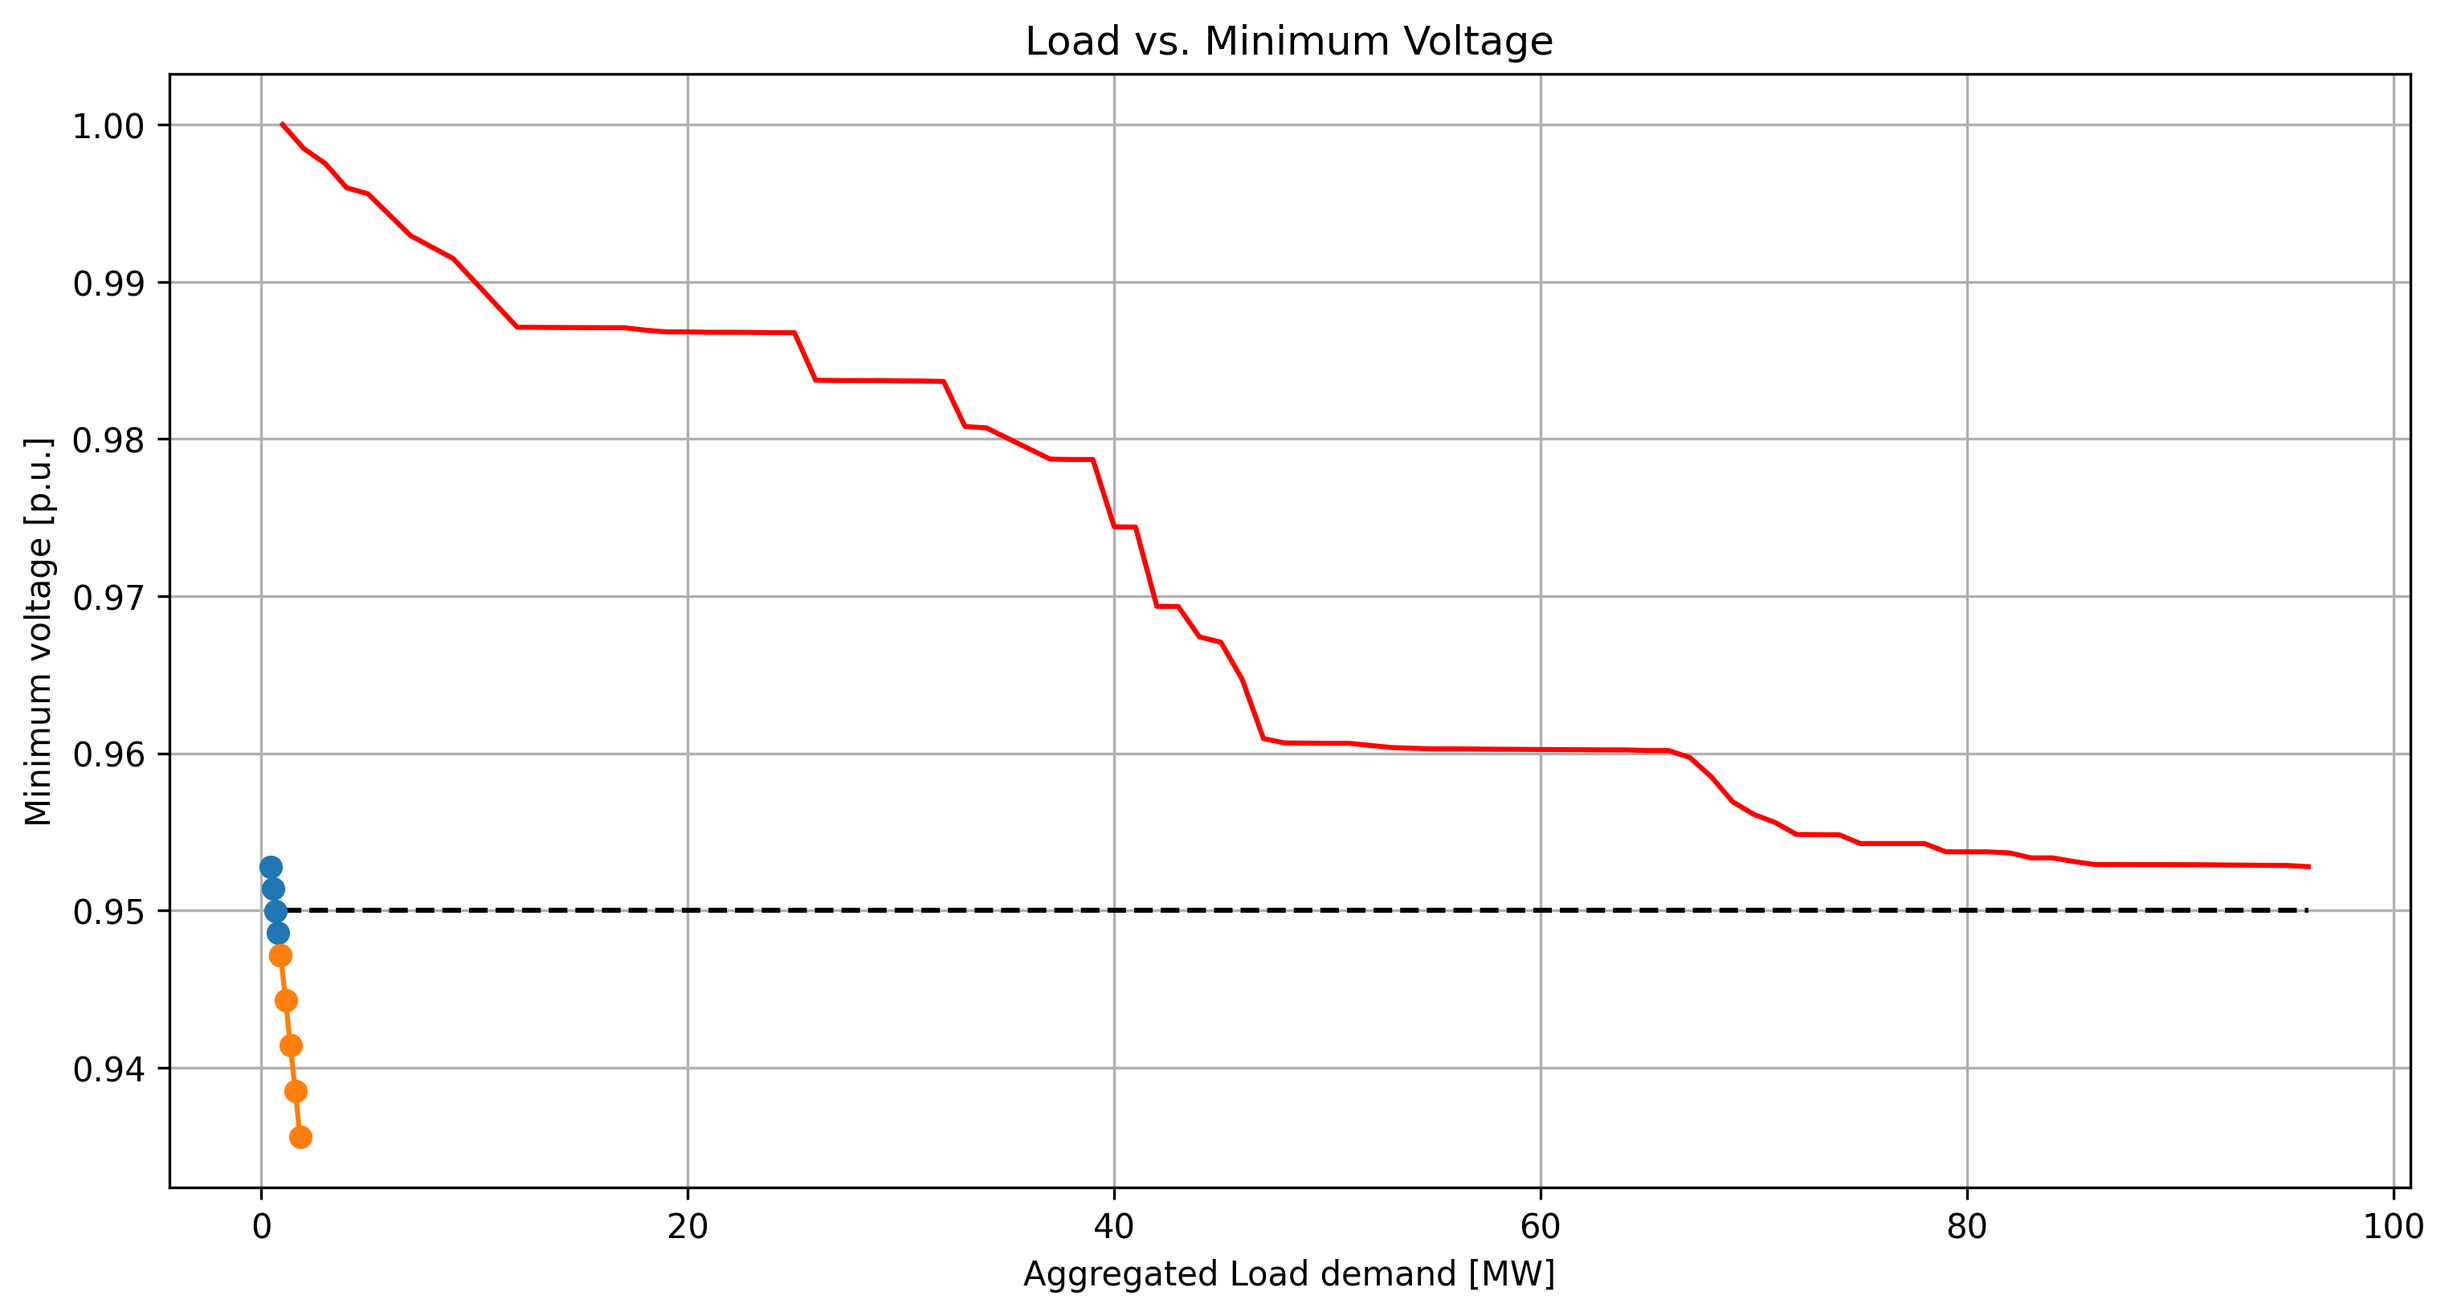
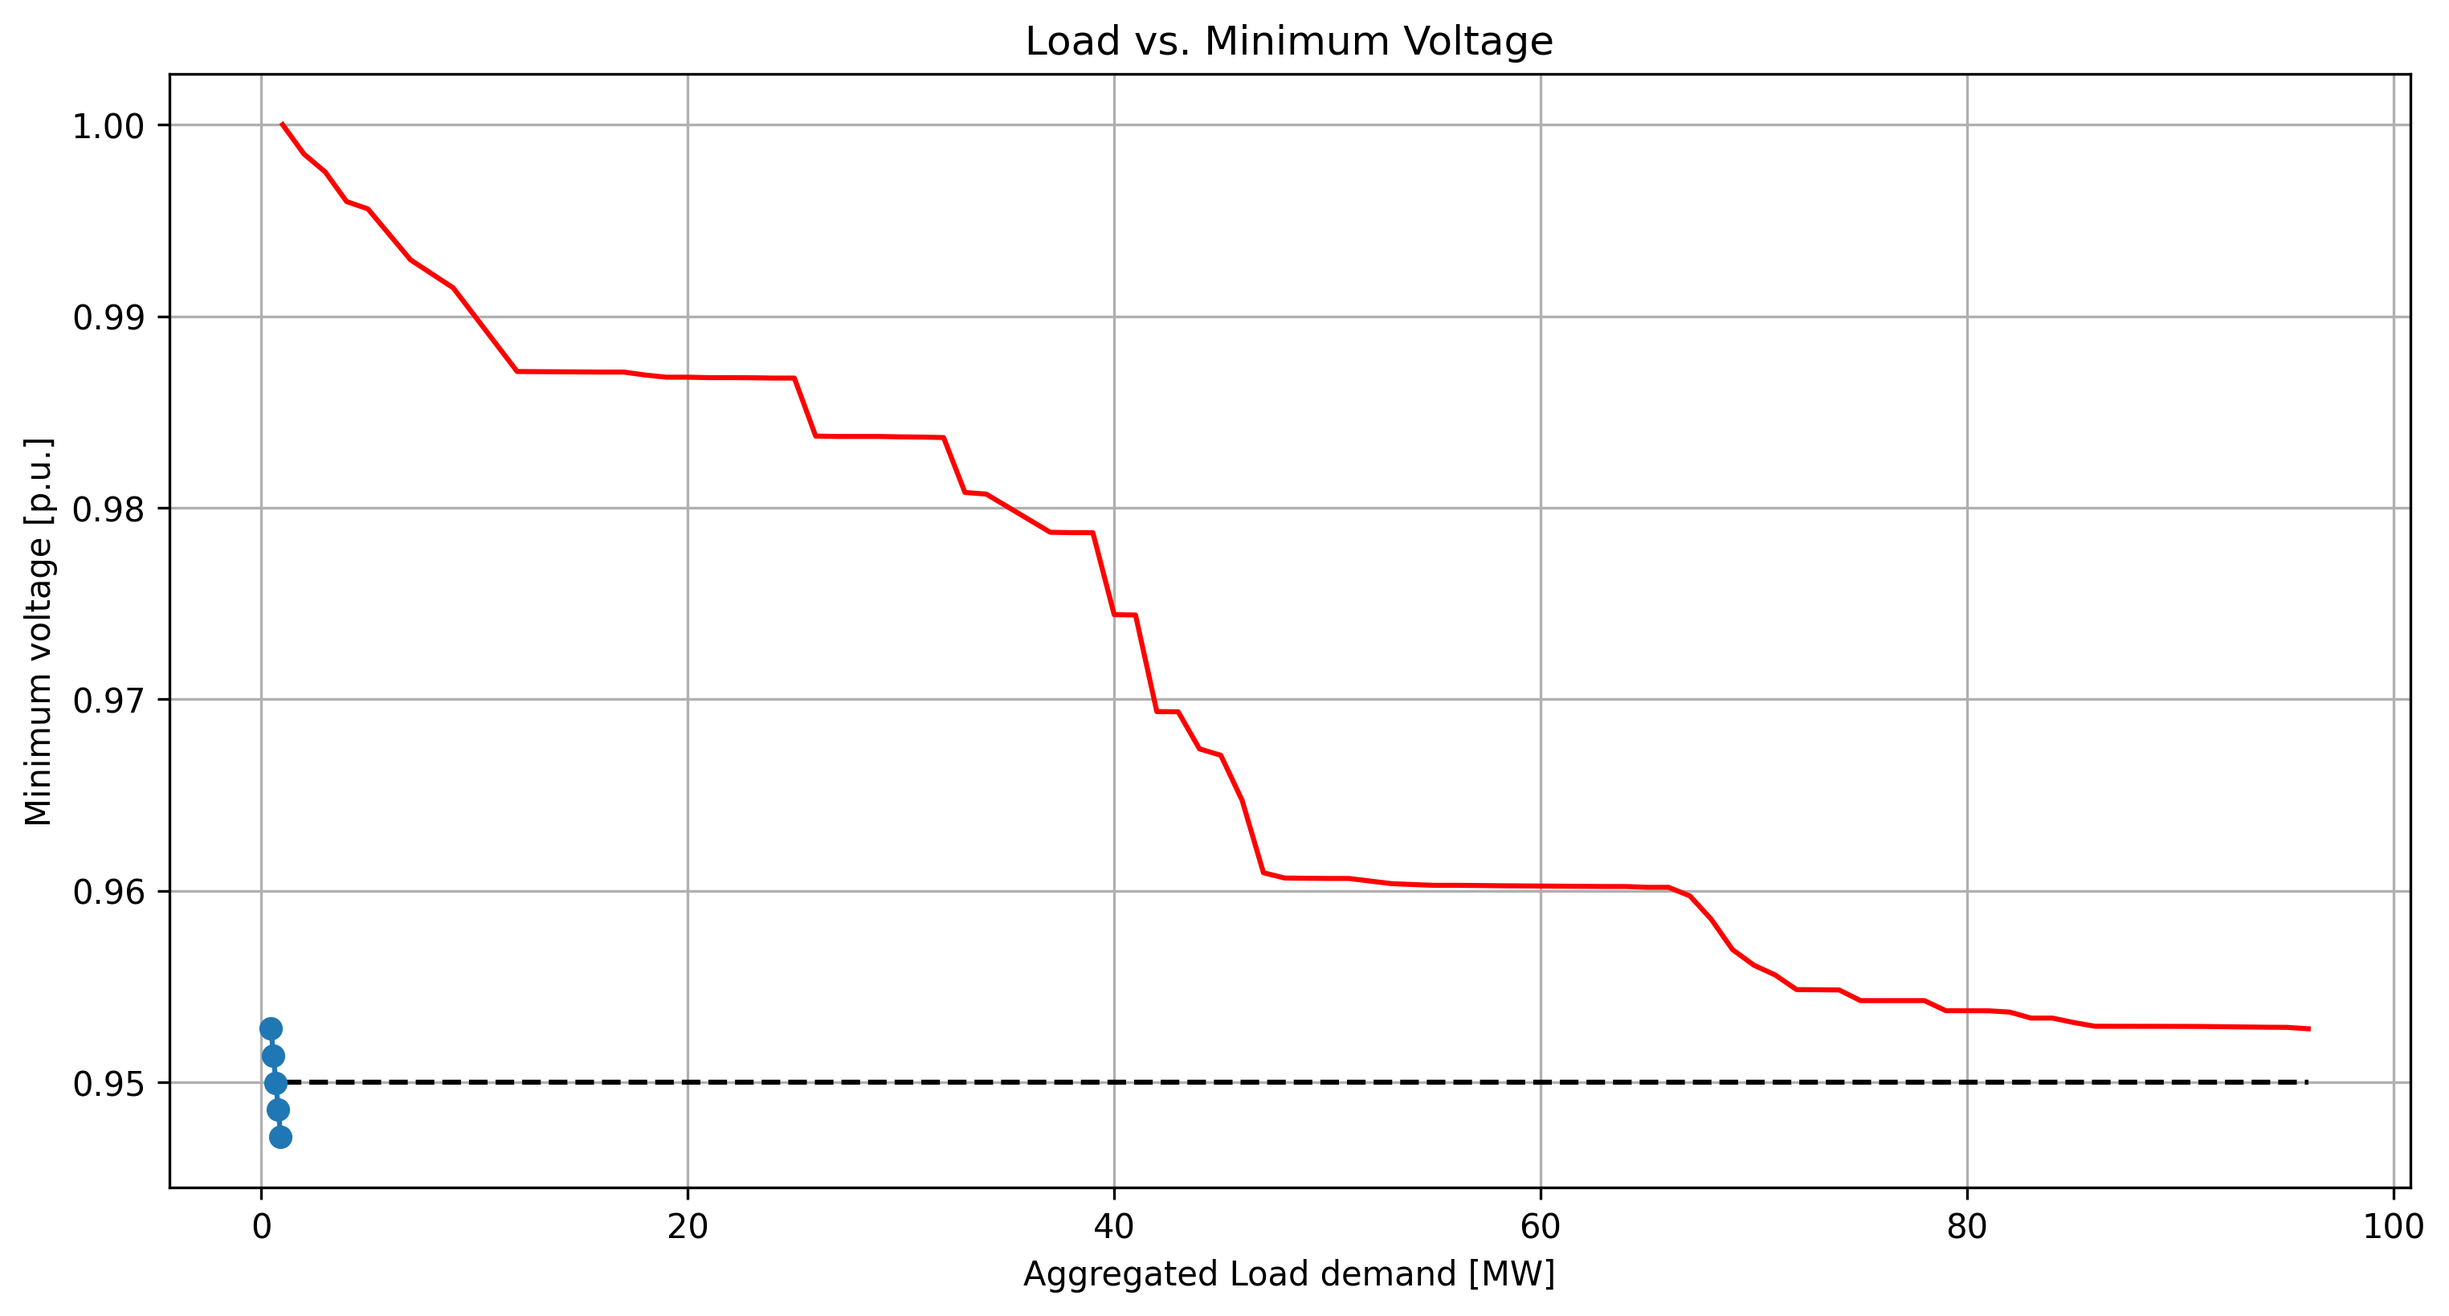
Exercise_2_changes

diff --git a/Kraftmarkeder - fleksibilitetsmodul/CINELDI_MV_reference_system-flexibility_course_NTNU_public/exercise_2_load_analysis.py b/Kraftmarkeder - fleksibilitetsmodul/CINELDI_MV_reference_system-flexibility_course_NTNU_public/exercise_2_load_analysis.py
@@ -141,130 +141,86 @@ plt.savefig(os.path.join(output_dir, 'descending_voltage.png'), dpi=300, bbox_in
 
 
 # Exercise 2 - Find how much the voltages decrease as the load demand in the area increases
-power_df = pd.DataFrame()
-Demand_bus_90 = net.load[net.load['bus'] == 90]['p_mw'].values
-Demand_bus_91 = net.load[net.load['bus'] == 91]['p_mw'].values
-Demand_bus_92 = net.load[net.load['bus'] == 92]['p_mw'].values
-Demand_bus_96 = net.load[net.load['bus'] == 96]['p_mw'].values
+# Find how much the voltages decrease as the load demand in the area increases 
+# For later reference, make a table showing the load demand values of all four existing load 
+# points in the area (on bus 90, 91, 92 and 96) and their sum (i.e., the aggregated load demand 
+# in the area). Multiply each load proportionally by a scaling factor and run power flow 
+# calculations again for different values of this scaling factor in the range 1 to 2. Plot the lowest 
+# voltage value in the area as a function of the aggregated load demand in the area, compare 
+# with the voltage limit of 0.95 p.u., and explain what this tells about the grid capacity in the 
+# area. 
 
+## Martin suggestion to solve Exercise 2 ##
+# 1. Store original load values, both real and reactive, for buses 90, 91, 92, and 96
+# 2. Loop over scaling factors from 1 to 2 in steps of 0.2
+# 3. In each iteration, scale the load values for the four buses
+# 4. Print a table showing the load demand values of all four existing load points in the area and their sum
+    # The table should have the following format:
 
-Scaling_factors = np.arange(1,2.25,0.25) 
+    # Bus number / Scaling factor | 1.0 | 1.2 | 1.4 | 1.6 | 1.8 | 2.0
+    # 90                          |P90|Q90|
+    # 91                          |P91|Q91|
+    # 92                          |P92|Q92|
+    # 96                          |P96|Q96|
+    # Aggregated load demand      |SumP|SumQ|
+# 5. Run power flow calculation to find voltages
+# 6. Find the minimum voltage in the system and the corresponding bus
+# 7. Store the aggregated load demand in the area and the minimum voltage for plotting
+
+P_demand_bus_90_original = net.load.loc[net.load['bus'] == 90, 'p_mw'].values[0]
+Q_demand_bus_90_original = net.load.loc[net.load['bus'] == 90, 'q_mvar'].values[0]
+P_demand_bus_91_original = net.load.loc[net.load['bus'] == 91, 'p_mw'].values[0]
+Q_demand_bus_91_original = net.load.loc[net.load['bus'] == 91, 'q_mvar'].values[0]
+P_demand_bus_92_original = net.load.loc[net.load['bus'] == 92, 'p_mw'].values[0]
+Q_demand_bus_92_original = net.load.loc[net.load['bus'] == 92, 'q_mvar'].values[0]
+P_demand_bus_96_original = net.load.loc[net.load['bus'] == 96, 'p_mw'].values[0]
+Q_demand_bus_96_original = net.load.loc[net.load['bus'] == 96, 'q_mvar'].values[0]
+
+scaling_factors = np.arange(1, 2.01, 0.2)
 plotting_dict = {}
-for factor in Scaling_factors:
-    net.load.loc[net.load['bus'] == 90, 'p_mw'] = Demand_bus_90 * factor
-    net.load.loc[net.load['bus'] == 91, 'p_mw'] = Demand_bus_91 * factor
-    net.load.loc[net.load['bus'] == 92, 'p_mw'] = Demand_bus_92 * factor
-    net.load.loc[net.load['bus'] == 96, 'p_mw'] = Demand_bus_96 * factor
-    pp.runpp(net,init='results',algorithm='bfsw')
+for factor in scaling_factors:
+    net.load.loc[net.load['bus'] == 90, 'p_mw'] = P_demand_bus_90_original * factor
+    net.load.loc[net.load['bus'] == 90, 'q_mvar'] = Q_demand_bus_90_original * factor
+    net.load.loc[net.load['bus'] == 91, 'p_mw'] = P_demand_bus_91_original * factor
+    net.load.loc[net.load['bus'] == 91, 'q_mvar'] = Q_demand_bus_91_original * factor
+    net.load.loc[net.load['bus'] == 92, 'p_mw'] = P_demand_bus_92_original * factor
+    net.load.loc[net.load['bus'] == 92, 'q_mvar'] = Q_demand_bus_92_original * factor
+    net.load.loc[net.load['bus'] == 96, 'p_mw'] = P_demand_bus_96_original * factor
+    net.load.loc[net.load['bus'] == 96, 'q_mvar'] = Q_demand_bus_96_original * factor
+
+    # Print table of load demands
+    print(f"\nLoad demands for scaling factor {factor:.1f}:")
+    print(f"Bus 90: P = {net.load.loc[net.load['bus'] == 90, 'p_mw'].values[0]:.3f} MW, Q = {net.load.loc[net.load['bus'] == 90, 'q_mvar'].values[0]:.3f} MVar")
+    print(f"Bus 91: P = {net.load.loc[net.load['bus'] == 91, 'p_mw'].values[0]:.3f} MW, Q = {net.load.loc[net.load['bus'] == 91, 'q_mvar'].values[0]:.3f} MVar")
+    print(f"Bus 92: P = {net.load.loc[net.load['bus'] == 92, 'p_mw'].values[0]:.3f} MW, Q = {net.load.loc[net.load['bus'] == 92, 'q_mvar'].values[0]:.3f} MVar")
+    print(f"Bus 96: P = {net.load.loc[net.load['bus'] == 96, 'p_mw'].values[0]:.3f} MW, Q = {net.load.loc[net.load['bus'] == 96, 'q_mvar'].values[0]:.3f} MVar")
+    aggregated_P_load = net.load.loc[net.load['bus'].isin(bus_i_subset), 'p_mw'].sum()
+    aggregated_Q_load = net.load.loc[net.load['bus'].isin(bus_i_subset), 'q_mvar'].sum()
+    print(f"Aggregated load demand: P = {aggregated_P_load:.3f} MW, Q = {aggregated_Q_load:.3f} MVar")
+
+    # Run power flow calculation
+    pp.runpp(net, init='results', algorithm='bfsw')
     min_voltage = net.res_bus['vm_pu'].min()
     bus_min_voltage = net.res_bus['vm_pu'].idxmin()
     lowest = [bus_min_voltage]
     load_demand_low = net.load.loc[net.load['bus'].isin(lowest), 'p_mw'].sum()
-    # Hent last kun for bussene du endrer
     aggregated_load_demand = net.load.loc[net.load['bus'].isin(bus_i_subset), 'p_mw'].sum()
     plotting_dict[factor] = (bus_min_voltage, min_voltage, load_demand_low, aggregated_load_demand)
-
 min_voltages = []
 load_demands = []
 for key in plotting_dict:
     min_voltages.append(plotting_dict[key][1])
-    load_demands.append(plotting_dict[key][3])  
-
+    load_demands.append(plotting_dict[key][3])
+plt.figure(figsize=(10,6))
 plt.plot(load_demands, min_voltages, marker='o', linestyle='-')
-
+plt.plot(load_demands, 0.95*np.ones(len(load_demands)), 'k--', label='Voltage limit 0.95 p.u.')
+plt.xticks(np.arange(load_demands[0], load_demands[-1], 0.05))
+plt.legend()
 plt.xlabel("Aggregated Load demand [MW]")
 plt.ylabel("Minimum voltage [p.u.]")
 plt.title("Load vs. Minimum Voltage")
-save_plot('exercise_2_load_vs_voltage.png')
-
-#
-#
-#Made by Olav, new way to solve Excercise 2
-#
-#
-power_df = pd.DataFrame()
-Demand_bus_90 = net.load[net.load['bus'] == 90]['p_mw'].values
-Demand_bus_91 = net.load[net.load['bus'] == 91]['p_mw'].values
-Demand_bus_92 = net.load[net.load['bus'] == 92]['p_mw'].values
-Demand_bus_96 = net.load[net.load['bus'] == 96]['p_mw'].values
-
-# Keep a snapshot of original loads for the selected buses
-original_loads = {
-    90: float(Demand_bus_90[0]) if len(Demand_bus_90) else 0.0,
-    91: float(Demand_bus_91[0]) if len(Demand_bus_91) else 0.0,
-    92: float(Demand_bus_92[0]) if len(Demand_bus_92) else 0.0,
-    96: float(Demand_bus_96[0]) if len(Demand_bus_96) else 0.0,
-}
-
-
-Scaling_factors = np.arange(1,2.25,0.25) 
-plotting_dict = {}
-for factor in Scaling_factors:
-    net.load.loc[net.load['bus'] == 90, 'p_mw'] = Demand_bus_90 * factor
-    net.load.loc[net.load['bus'] == 91, 'p_mw'] = Demand_bus_91 * factor
-    net.load.loc[net.load['bus'] == 92, 'p_mw'] = Demand_bus_92 * factor
-    net.load.loc[net.load['bus'] == 96, 'p_mw'] = Demand_bus_96 * factor
-    pp.runpp(net,init='results',algorithm='bfsw')
-    min_voltage = net.res_bus['vm_pu'].min()
-    bus_min_voltage = net.res_bus['vm_pu'].idxmin()
-    lowest = [bus_min_voltage]
-    load_demand_low = net.load.loc[net.load['bus'].isin(lowest), 'p_mw'].sum()
-    # Hent last kun for bussene du endrer
-    aggregated_load_demand = net.load.loc[net.load['bus'].isin(bus_i_subset), 'p_mw'].sum()
-    plotting_dict[factor] = (bus_min_voltage, min_voltage, load_demand_low, aggregated_load_demand)
-
-min_voltages = []
-load_demands = []
-for key in plotting_dict:
-    min_voltages.append(plotting_dict[key][1])
-    load_demands.append(plotting_dict[key][3])  
-
-plt.plot(load_demands, min_voltages, marker='o', linestyle='-')
-
-plt.xlabel("Aggregated Load demand [MW]")
-plt.ylabel("Minimum voltage [p.u.]")
-plt.title("Load vs. Minimum Voltage")
-save_plot('exercise_2_load_vs_voltage_olav.png')
-
-# Restore original loads after the sweep to avoid affecting later calculations
-for bus, p in original_loads.items():
-    net.load.loc[net.load['bus'] == bus, 'p_mw'] = p
-
-# Create compact scaling table for the selected buses (like the sample table)
-scaling_factors_table = [1.0, 1.2, 1.4, 1.6, 1.8, 2.0]
-buses_for_table = [90, 91, 92, 96]
-
-# Use per-bus original Pd values from res_bus to avoid side effects and duplication
-base_loads = {bus: float(net.res_bus.loc[bus, 'p_mw']) for bus in buses_for_table}
-
-table_cols = [str(sf) for sf in scaling_factors_table]
-row_labels = [f"Bus {bus}" for bus in buses_for_table] + ["Aggregated load in system [MW]"]
-scaling_table = pd.DataFrame(index=row_labels, columns=table_cols, dtype=float)
-
-for sf in scaling_factors_table:
-    # Per-bus scaled values
-    for bus in buses_for_table:
-        scaling_table.loc[f"Bus {bus}", str(sf)] = base_loads[bus] * sf
-    # Aggregated over the specified buses
-    scaling_table.loc["Aggregated load in system [MW]", str(sf)] = sum(base_loads.values()) * sf
-
-# Round for neat display
-scaling_table = scaling_table.round(4)
-
-print("\nLoad demand values [MW] of existing load points:")
-print(scaling_table.to_string())
-
-# Save to CSV next to this script
-script_dir = os.path.dirname(os.path.abspath(__file__))
-out_csv = os.path.join(script_dir, "ex2_scaling_table.csv")
-scaling_table.to_csv(out_csv)
-print(f"Saved scaling table to: {out_csv}")
-
-#
-#
-#Above made by Olav, new way to solve Excercise 2
-#
-#
+# plt.show()
+save_plot('Ex2_LoadVsMinimumVoltage.png')
 
 
 # Exercise 3 - Plot the aggregated load demand time series for the grid area

diff --git a/Kraftmarkeder - fleksibilitetsmodul/7703070/Exercise_2_old_work.py b/Kraftmarkeder - fleksibilitetsmodul/7703070/Exercise_2_old_work.py
@@ -1,0 +1,125 @@
+power_df = pd.DataFrame()
+Demand_bus_90 = {"PW": net.load[net.load['bus'] == 90]['p_mw'].values, "QW": net.load[net.load['bus'] == 90]['q_mvar'].values}
+Demand_bus_91 = {"PW": net.load[net.load['bus'] == 91]['p_mw'].values, "QW": net.load[net.load['bus'] == 91]['q_mvar'].values}
+Demand_bus_92 = {"PW": net.load[net.load['bus'] == 92]['p_mw'].values, "QW": net.load[net.load['bus'] == 92]['q_mvar'].values}
+Demand_bus_96 = {"PW": net.load[net.load['bus'] == 96]['p_mw'].values, "QW": net.load[net.load['bus'] == 96]['q_mvar'].values}
+
+
+
+
+Scaling_factors = np.arange(1,2.2,0.2) 
+plotting_dict = {}
+for factor in Scaling_factors:
+    net.load.loc[net.load['bus'] == 90, 'p_mw'] = Demand_bus_90 * factor
+    net.load.loc[net.load['bus'] == 91, 'p_mw'] = Demand_bus_91 * factor
+    net.load.loc[net.load['bus'] == 92, 'p_mw'] = Demand_bus_92 * factor
+    net.load.loc[net.load['bus'] == 96, 'p_mw'] = Demand_bus_96 * factor
+    pp.runpp(net,init='results',algorithm='bfsw')
+    min_voltage = net.res_bus['vm_pu'].min()
+    bus_min_voltage = net.res_bus['vm_pu'].idxmin()
+    lowest = [bus_min_voltage]
+    load_demand_low = net.load.loc[net.load['bus'].isin(lowest), 'p_mw'].sum()
+    # Hent last kun for bussene du endrer
+    aggregated_load_demand = net.load.loc[net.load['bus'].isin(bus_i_subset), 'p_mw'].sum()
+    plotting_dict[factor] = (bus_min_voltage, min_voltage, load_demand_low, aggregated_load_demand)
+
+min_voltages = []
+load_demands = []
+for key in plotting_dict:
+    min_voltages.append(plotting_dict[key][1])
+    load_demands.append(plotting_dict[key][3])  
+
+plt.plot(load_demands, min_voltages, marker='o', linestyle='-')
+
+plt.xlabel("Aggregated Load demand [MW]")
+plt.ylabel("Minimum voltage [p.u.]")
+plt.title("Load vs. Minimum Voltage")
+save_plot('exercise_2_load_vs_voltage.png')
+
+
+
+Made by Olav, new way to solve Excercise 2
+
+
+power_df = pd.DataFrame()
+Demand_bus_90 = net.load[net.load['bus'] == 90]['p_mw'].values
+Demand_bus_91 = net.load[net.load['bus'] == 91]['p_mw'].values
+Demand_bus_92 = net.load[net.load['bus'] == 92]['p_mw'].values
+Demand_bus_96 = net.load[net.load['bus'] == 96]['p_mw'].values
+
+# Keep a snapshot of original loads for the selected buses
+original_loads = {
+    90: float(Demand_bus_90[0]) if len(Demand_bus_90) else 0.0,
+    91: float(Demand_bus_91[0]) if len(Demand_bus_91) else 0.0,
+    92: float(Demand_bus_92[0]) if len(Demand_bus_92) else 0.0,
+    96: float(Demand_bus_96[0]) if len(Demand_bus_96) else 0.0,
+}
+
+
+Scaling_factors = np.arange(1,2.25,0.25) 
+plotting_dict = {}
+for factor in Scaling_factors:
+    net.load.loc[net.load['bus'] == 90, 'p_mw'] = Demand_bus_90 * factor
+    net.load.loc[net.load['bus'] == 91, 'p_mw'] = Demand_bus_91 * factor
+    net.load.loc[net.load['bus'] == 92, 'p_mw'] = Demand_bus_92 * factor
+    net.load.loc[net.load['bus'] == 96, 'p_mw'] = Demand_bus_96 * factor
+    pp.runpp(net,init='results',algorithm='bfsw')
+    min_voltage = net.res_bus['vm_pu'].min()
+    bus_min_voltage = net.res_bus['vm_pu'].idxmin()
+    lowest = [bus_min_voltage]
+    load_demand_low = net.load.loc[net.load['bus'].isin(lowest), 'p_mw'].sum()
+    # Hent last kun for bussene du endrer
+    aggregated_load_demand = net.load.loc[net.load['bus'].isin(bus_i_subset), 'p_mw'].sum()
+    plotting_dict[factor] = (bus_min_voltage, min_voltage, load_demand_low, aggregated_load_demand)
+
+min_voltages = []
+load_demands = []
+for key in plotting_dict:
+    min_voltages.append(plotting_dict[key][1])
+    load_demands.append(plotting_dict[key][3])  
+
+plt.plot(load_demands, min_voltages, marker='o', linestyle='-')
+
+plt.xlabel("Aggregated Load demand [MW]")
+plt.ylabel("Minimum voltage [p.u.]")
+plt.title("Load vs. Minimum Voltage")
+save_plot('exercise_2_load_vs_voltage_olav.png')
+
+# Restore original loads after the sweep to avoid affecting later calculations
+for bus, p in original_loads.items():
+    net.load.loc[net.load['bus'] == bus, 'p_mw'] = p
+
+# Create compact scaling table for the selected buses (like the sample table)
+scaling_factors_table = [1.0, 1.2, 1.4, 1.6, 1.8, 2.0]
+buses_for_table = [90, 91, 92, 96]
+
+# Use per-bus original Pd values from res_bus to avoid side effects and duplication
+base_loads = {bus: float(net.res_bus.loc[bus, 'p_mw']) for bus in buses_for_table}
+
+table_cols = [str(sf) for sf in scaling_factors_table]
+row_labels = [f"Bus {bus}" for bus in buses_for_table] + ["Aggregated load in system [MW]"]
+scaling_table = pd.DataFrame(index=row_labels, columns=table_cols, dtype=float)
+
+for sf in scaling_factors_table:
+    # Per-bus scaled values
+    for bus in buses_for_table:
+        scaling_table.loc[f"Bus {bus}", str(sf)] = base_loads[bus] * sf
+    # Aggregated over the specified buses
+    scaling_table.loc["Aggregated load in system [MW]", str(sf)] = sum(base_loads.values()) * sf
+
+# Round for neat display
+scaling_table = scaling_table.round(4)
+
+print("\nLoad demand values [MW] of existing load points:")
+print(scaling_table.to_string())
+
+# Save to CSV next to this script
+script_dir = os.path.dirname(os.path.abspath(__file__))
+out_csv = os.path.join(script_dir, "ex2_scaling_table.csv")
+scaling_table.to_csv(out_csv)
+print(f"Saved scaling table to: {out_csv}")
+
+
+
+# Above made by Olav, new way to solve Excercise 2
+
